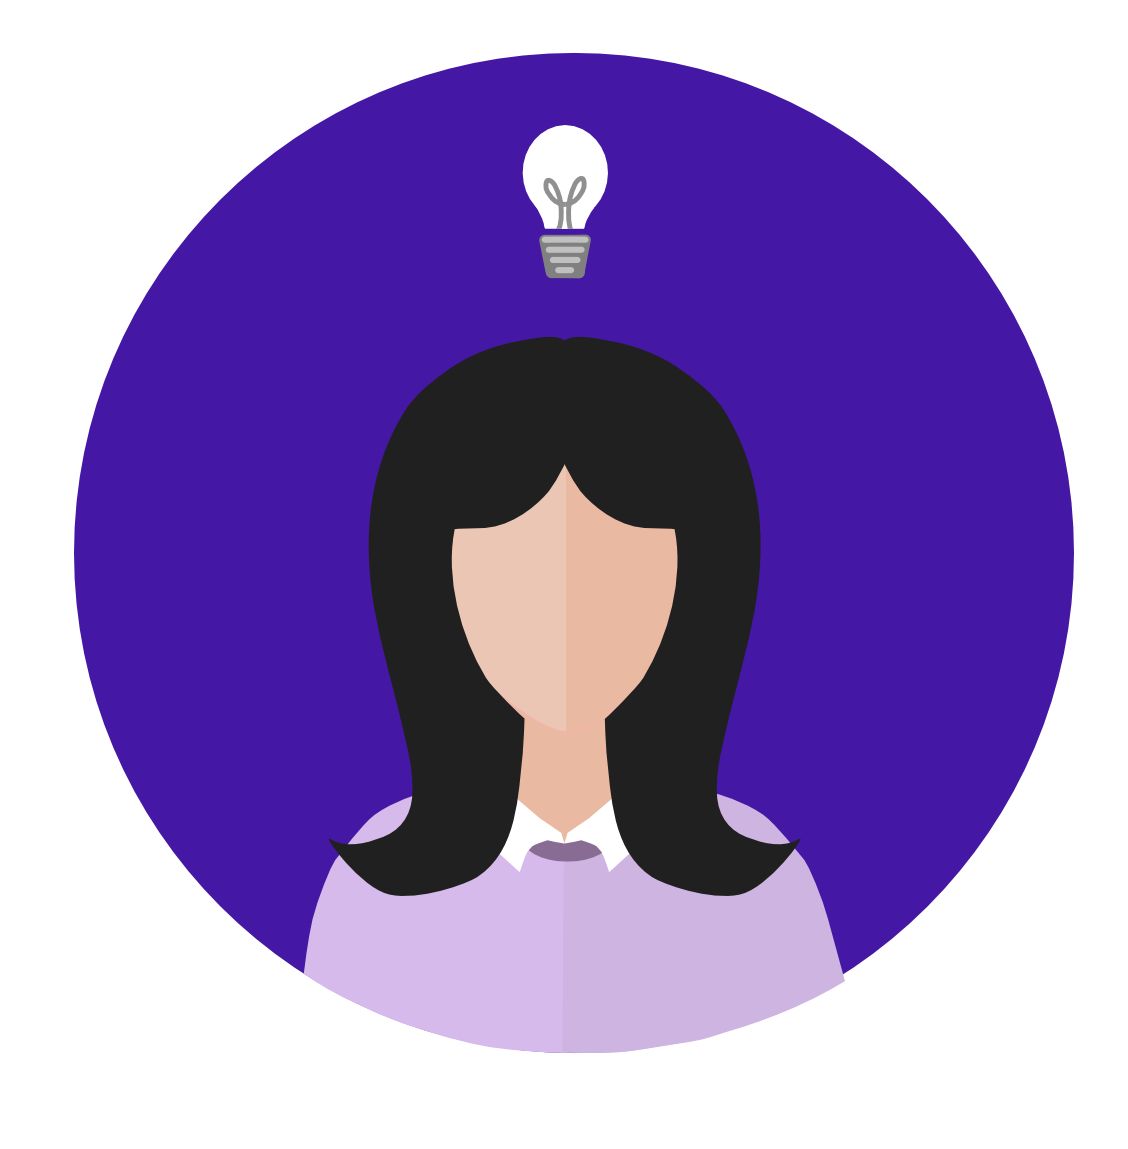
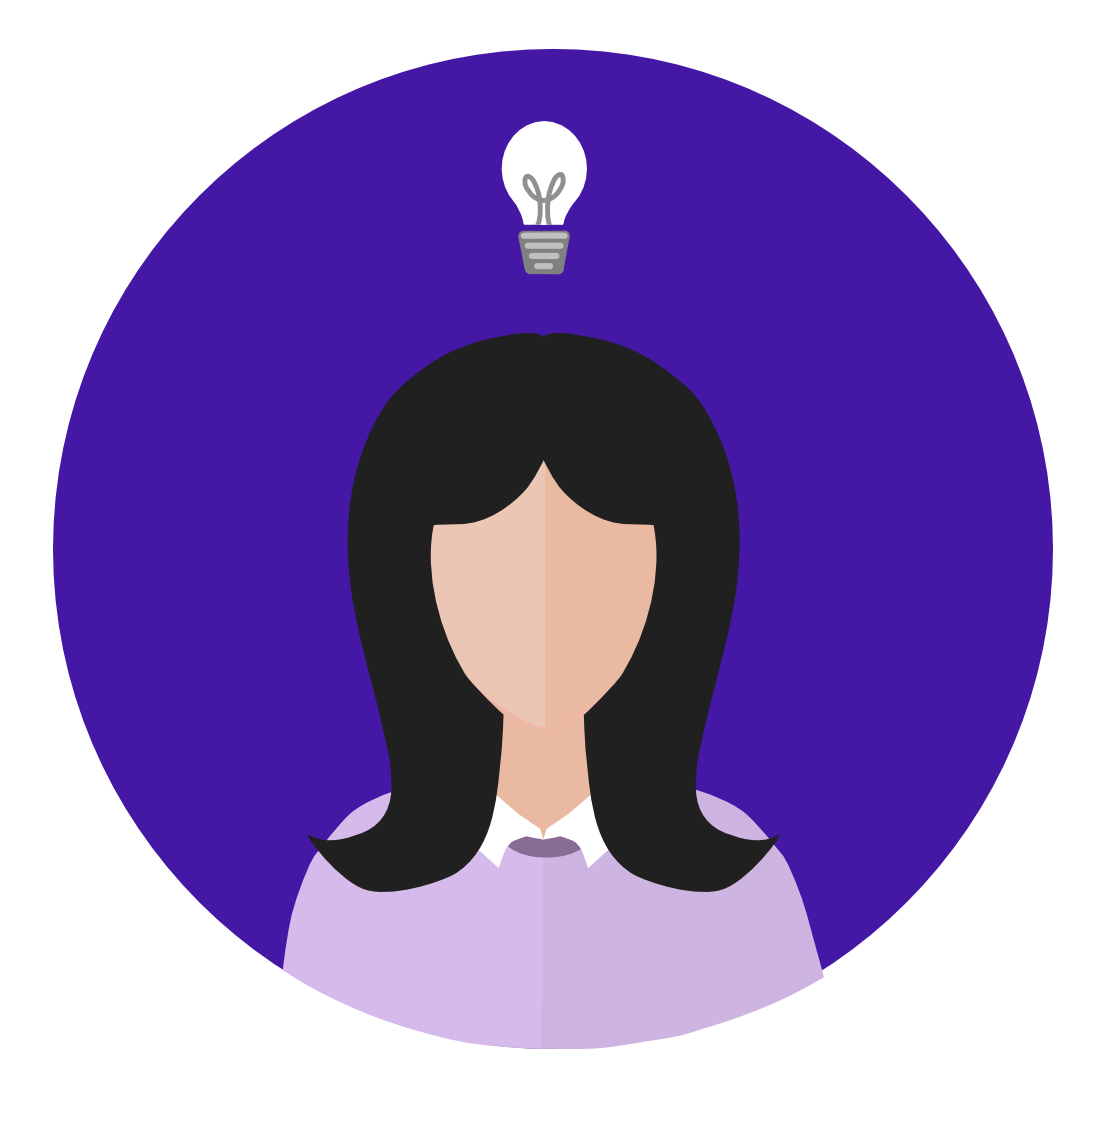
Uploaded Files

diff --git a/project-styles.css b/project-styles.css
@@ -113,8 +113,8 @@ hr {
   margin-right: auto;
   width: 50%;
   padding-top: 2vh;
-  padding-left: 26.5vh;
-  margin-top: -24vh;
+  padding-left: 32vh;
+  margin-top: -25vh;
 }
 
 .planePic {
@@ -122,7 +122,7 @@ hr {
   margin-left: auto;
   margin-right: auto;
   margin-top: -17vh;
-  padding-left: 34vh;
+  padding-left: 27vh;
   display: block;
 }
 
@@ -159,7 +159,7 @@ html body [data-ca3_iconfont="ETmodules"]::before {
 	height: 8vh;
 	width: 10vh;
 	text-align: center;
-	margin: 0px 0 0 -40px;
+	margin: 0px 0 0 -5.4vh;
 	line-height: 60px;
 	position: absolute;
 	left: 50%;

diff --git a/style.css b/style.css
@@ -212,7 +212,7 @@ html body [data-ca3_iconfont="ETmodules"]::before {
 	height: 8vh;
 	width: 10vh;
 	text-align: center;
-	margin: 0px 0 0 -5.7vh;
+	margin: 0px 0 0 -5.2vh;
 	line-height: 60px;
 	position: absolute;
 	left: 50%;
